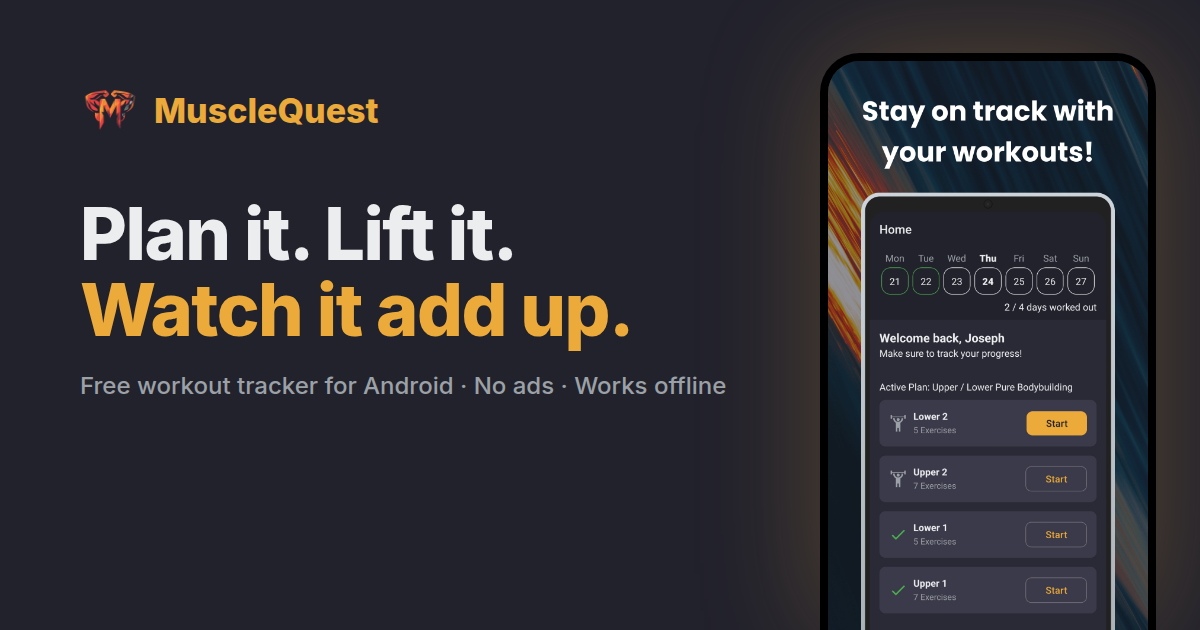
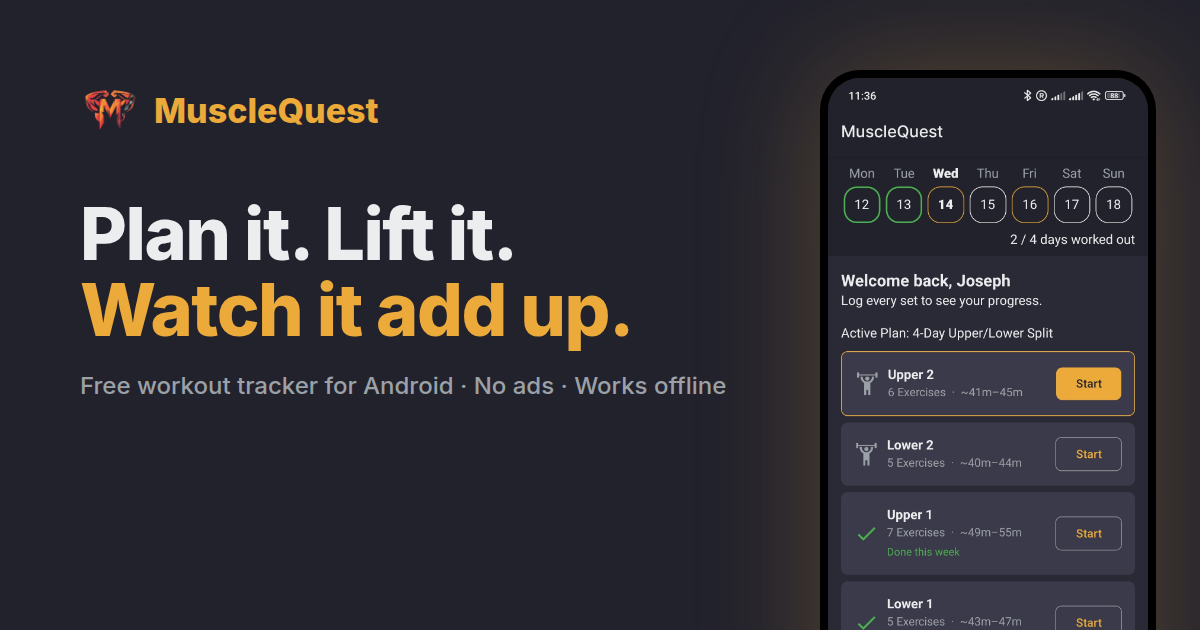
feat: new 1.5 screenshots and a friends feature block

Changed region(s): [[0.6783, 0.0603, 0.9867, 1.0]]

diff --git a/src/content/home/en.ts b/src/content/home/en.ts
@@ -10,7 +10,7 @@ export const home: HomeContent = {
     titleAccent: "Watch it add up.",
     lede: "The free workout tracker that keeps your training on your phone, not in someone's cloud.",
     chips: ["Free, no ads", "Works offline", "No account needed"],
-    screenshotAlt: "MuscleQuest home screen showing this week's workouts and progress toward the weekly goal",
+    screenshotAlt: "MuscleQuest home screen with this week's goal strip, two of four days done, and the active plan's workouts",
   },
   features: {
     intro: { title: "Everything a training log should do", text: "From the plan to the last rep to the long-term trend, in one app that stays out of your way." },
@@ -21,7 +21,7 @@ export const home: HomeContent = {
         text: "Build your own plan from nearly 1,000 exercises, or start from one of seven premade programmes and make it yours. Set sets, reps and rest for every exercise, then pin workouts to the days you train.",
         bullets: ["7 premade plans, from 3-Day Full Body to 5-Day PPL", "Warm-up sets, drop sets and supersets", "A weekly schedule with suggested training days", "Duplicate plans and reuse workouts anywhere"],
         screenshot: "plan",
-        screenshotAlt: "Plan editor with several workouts and a weekly schedule",
+        screenshotAlt: "Plan editor for a 4-day upper/lower split, with sets and reps for each exercise and a superset",
       },
       {
         id: "logging",
@@ -29,7 +29,7 @@ export const home: HomeContent = {
         text: "Start from your plan, your saved workouts or a quick workout on the fly. Sets come pre-filled from last time, so most of the time you just tap done.",
         bullets: ["Reps, weight, time, distance or assisted loads", "A rest timer that alerts you even with your phone locked", "A plate calculator for the plates you actually own", "Pick up an interrupted session right where you left off"],
         screenshot: "workout",
-        screenshotAlt: "Active workout with pre-filled sets and the rest timer",
+        screenshotAlt: "Active workout on set 4 of 5, pre-filled with a suggested 50 kg for 8 reps and the rest timer counting down",
       },
       {
         id: "progression",
@@ -37,7 +37,7 @@ export const home: HomeContent = {
         text: "Tell MuscleQuest how each exercise felt and it suggests when to add weight, reps or sets. Nothing changes without your OK.",
         bullets: ["Adaptive progression with deload support", "A gentle restart after time away", "All-time PRs and top sets for every exercise", "Performance charts and pinned exercise sparklines"],
         screenshot: "progression",
-        screenshotAlt: "Exercise details with a performance chart and personal records",
+        screenshotAlt: "Barbell bench press details with an all-time PR of 104.5 kg and an estimated one-rep max chart",
       },
       {
         id: "stats",
@@ -45,7 +45,7 @@ export const home: HomeContent = {
         text: "See how much you train, what you train and how it's trending, on a dashboard you arrange yourself.",
         bullets: ["Volume, time and workouts per week", "Muscle heatmap and body-part split", "A workout calendar and a full, editable history", "Weekly goal and streak tracking"],
         screenshot: "stats",
-        screenshotAlt: "Stats dashboard with weekly volume and a muscle heatmap",
+        screenshotAlt: "Stats screen with weekly insights, totals for workouts, volume and time, recent workouts and PRs",
       },
       {
         id: "measurements",
@@ -53,7 +53,15 @@ export const home: HomeContent = {
         text: "Log body weight, body fat, circumferences or your own metrics, straight from the home screen, and chart any of them over time.",
         bullets: ["Weight, body fat and circumferences", "Your own custom metrics", "Quick entry from the home screen", "A chart for every metric"],
         screenshot: "measurements",
-        screenshotAlt: "Body measurements chart over time",
+        screenshotAlt: "Body measurement entry with weight, body fat, waist and chest, above a falling body weight chart",
+      },
+      {
+        id: "friends",
+        title: "Train with friends",
+        text: "Add friends by email and see what they choose to share. Like their plan? Add a copy to your own library and make it yours.",
+        bullets: ["Strength PRs, recent workouts and measurements", "Add a friend's plan, workout or custom exercise in one tap", "Choose what you share, category by category", "Your email is never shown to other users"],
+        screenshot: "friends",
+        screenshotAlt: "A friend's profile with their strength PRs and recent activity",
       },
     ],
   },
@@ -73,7 +81,7 @@ export const home: HomeContent = {
     title: "And everything else",
     intro: "The small things that make a training app pleasant to use every day.",
     items: [
-      { title: "Train with friends", text: "Share workouts, PRs and plans, and import theirs in one tap. You choose what to share." },
+      { title: "Session notes", text: "Add a note to any workout to remember how it went." },
       { title: "Nearly 1,000 exercises", text: "Animated demos and search that understands RDL, OHP and typos." },
       { title: "Custom exercises", text: "Add your own, with your own image and tracking type." },
       { title: "Workout reminders", text: "On the days and at the times you choose." },
@@ -101,6 +109,6 @@ export const home: HomeContent = {
     title: "Start your next workout with MuscleQuest",
     text: "Your plan, your sets and your progress in one app. No ads, no account needed, and it works offline.",
     screenshot: "workout",
-    screenshotAlt: "Active workout with pre-filled sets and the rest timer",
+    screenshotAlt: "Active workout with a suggested weight and the rest timer counting down",
   },
 };

diff --git a/src/data/screenshots.ts b/src/data/screenshots.ts
@@ -1,11 +1,19 @@
 import type { ImageMetadata } from "astro";
-import home from "../assets/screenshots/home.png";
-import plan from "../assets/screenshots/plan.png";
-import workout from "../assets/screenshots/workout.png";
-import progression from "../assets/screenshots/progression.png";
-import stats from "../assets/screenshots/stats.png";
-// PLACEHOLDER: wrong screen until the user supplies a measurements screenshot (README → Screenshots).
+import home from "../assets/screenshots/home.jpg";
+import plan from "../assets/screenshots/plan.jpg";
+import workout from "../assets/screenshots/workout.jpg";
+import progression from "../assets/screenshots/progression.jpg";
+import stats from "../assets/screenshots/stats.jpg";
 import measurements from "../assets/screenshots/measurements.jpg";
+import friends from "../assets/screenshots/friend-profile.jpg";
 
-export type ScreenshotId = "home" | "plan" | "workout" | "progression" | "stats" | "measurements";
-export const screenshots: Record<ScreenshotId, ImageMetadata> = { home, plan, workout, progression, stats, measurements };
+export type ScreenshotId = "home" | "plan" | "workout" | "progression" | "stats" | "measurements" | "friends";
+export const screenshots: Record<ScreenshotId, ImageMetadata> = {
+  home,
+  plan,
+  workout,
+  progression,
+  stats,
+  measurements,
+  friends,
+};

diff --git a/scripts/og/og-image.html b/scripts/og/og-image.html
@@ -9,7 +9,7 @@
   h1 { font-size: 72px; line-height: 1.05; font-weight: 800; letter-spacing: -0.02em; margin: 56px 0 24px; }
   h1 span { color: #ebaa39; }
   p { font-size: 24px; color: #9ba1a6; margin: 0; }
-  .phone { align-self: end; margin-top: 70px; width: 320px; border: 8px solid #000; border-bottom: 0; border-radius: 40px 40px 0 0; overflow: hidden; box-shadow: 0 0 120px rgba(235,170,57,.25); }
+  .phone { align-self: start; margin-top: 70px; width: 320px; border: 8px solid #000; border-bottom: 0; border-radius: 40px 40px 0 0; overflow: hidden; box-shadow: 0 0 120px rgba(235,170,57,.25); }
   .phone img { width: 100%; display: block; }
 </style></head>
 <body>
@@ -18,5 +18,5 @@
     <h1>Plan it. Lift it.<br /><span>Watch it add up.</span></h1>
     <p>Free workout tracker for Android · No ads · Works offline</p>
   </div>
-  <div class="phone"><img src="../../src/assets/screenshots/home.png" alt="" /></div>
+  <div class="phone"><img src="../../src/assets/screenshots/home.jpg" alt="" /></div>
 </body></html>

diff --git a/README.md b/README.md
@@ -25,20 +25,21 @@ Commit the updated `src/content/help.json` and `src/content/changelog.json`.
 
 ## Screenshots
 
-Screenshots live in `src/assets/screenshots/` and are wired up in `src/data/screenshots.ts`. To replace one, overwrite the file with the same name. If the file type changes (e.g. `.jpg` → `.png`), update its import. Capture them on the current app with realistic demo data (a few weeks of history, an active plan, some PRs and measurements), portrait, English UI:
+Screenshots live in `src/assets/screenshots/` and are wired up in `src/data/screenshots.ts`. To replace one, overwrite the file with the same name. If the file type changes (e.g. `.png` → `.jpg`), update its import. Capture them on the current app with realistic demo data (a few weeks of history, an active plan, some PRs and measurements), portrait, English UI:
 
 | File | Screen | Should show | Used in |
 |---|---|---|---|
-| `home.png` | Home | Weekly goal strip with some days done, active plan workouts, measurements card | Hero, social preview image |
-| `plan.png` | Plan overview or editor | Several workouts and a weekly schedule, ideally a superset | Plans |
-| `workout.png` | Active workout | Mid-workout, pre-filled sets, rest timer running | Logging |
-| `progression.png` | Exercise details | Performance chart, all-time PR, top sets | Progression |
-| `stats.png` | Stats dashboard | Customised dashboard with muscle heatmap and weekly chart | Stats |
-| `measurements.jpg` | Body measurements | A measurement chart over time, e.g. body weight (**currently a placeholder showing the wrong screen**) | Measurements |
+| `home.jpg` | Home | Weekly goal strip with some days done, the active plan's workouts | Hero, social preview image |
+| `plan.jpg` | Plan editor | Workouts with sets and reps, ideally a superset | Plans |
+| `workout.jpg` | Active workout | Mid-workout, pre-filled set, rest timer running | Logging, download card |
+| `progression.jpg` | Exercise details | Performance chart, all-time PR | Progression |
+| `stats.jpg` | Stats | Insights, totals, workout history, PRs | Stats |
+| `measurements.jpg` | Body measurements | Latest values and a chart over time | Measurements |
+| `friend-profile.jpg` | Friend profile | A friend's shared PRs and activity | Friends |
 
-Optional extras for later: plate calculator, friends.
+Optional extra for later: plate calculator.
 
-After replacing `home.png`, regenerate the social preview image:
+After replacing `home.jpg`, regenerate the social preview image:
 
 ```bash
 google-chrome --headless=new --hide-scrollbars --allow-file-access-from-files --window-size=1200,630 \
